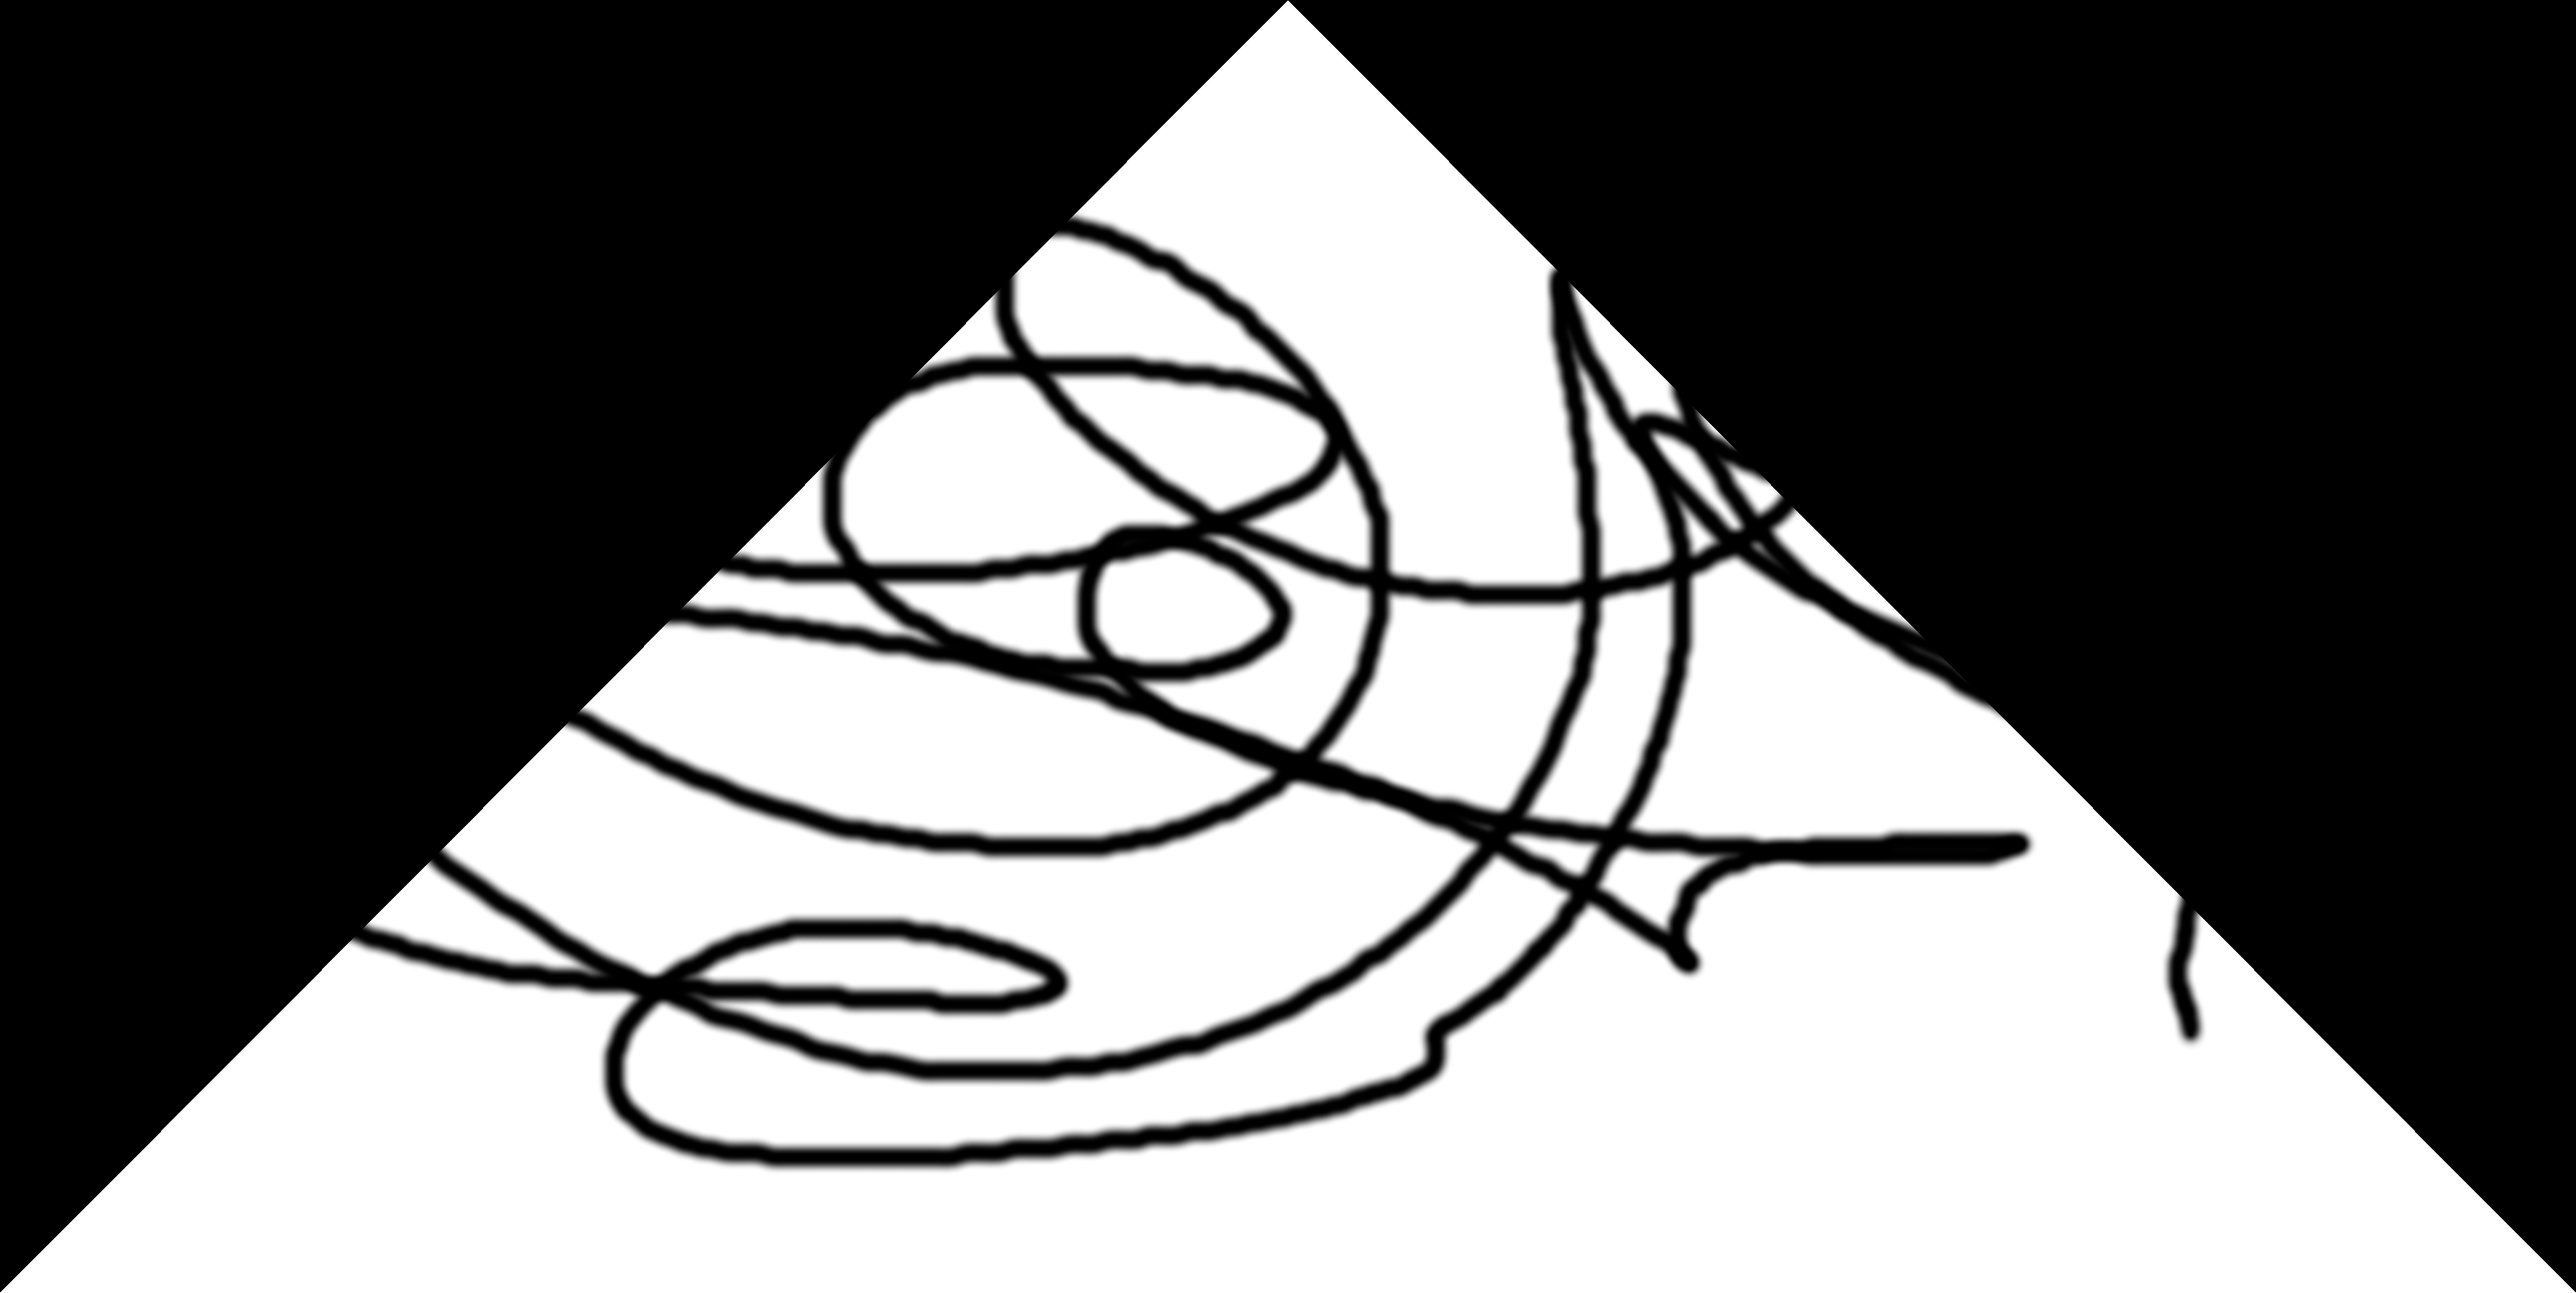
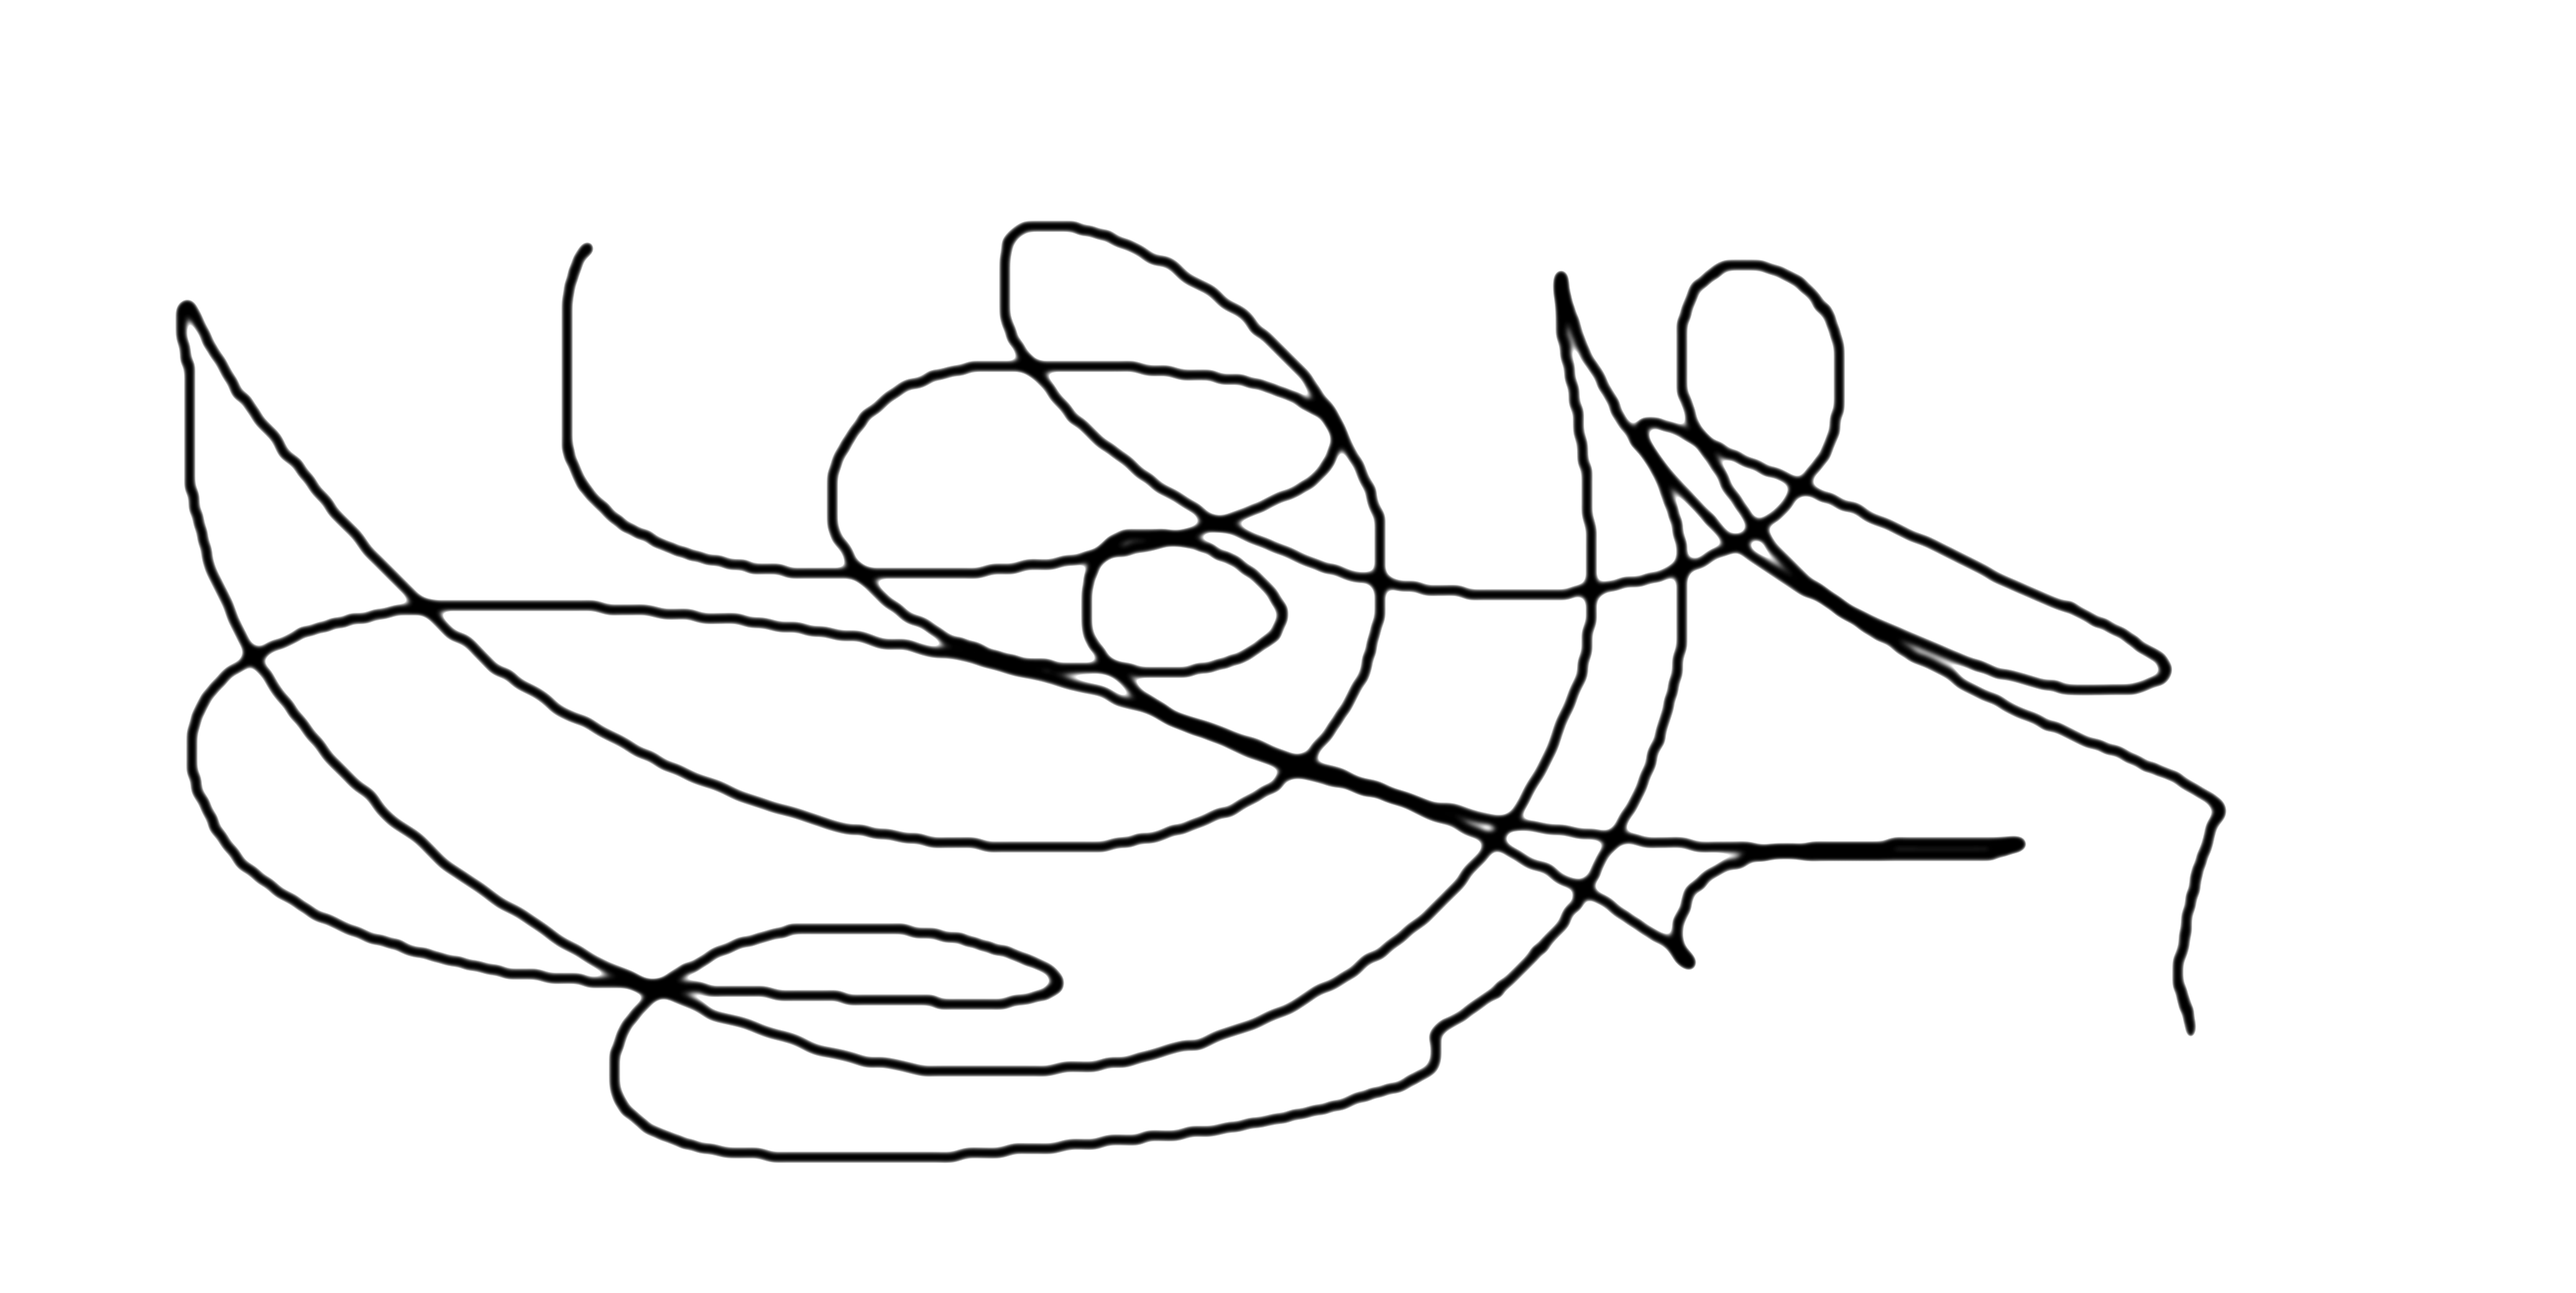
gaussian wowow

diff --git a/backend/src/main.rs b/backend/src/main.rs
@@ -7,9 +7,12 @@ async fn main() {
         .expect("couldn't create state");
 
     println!("post state load");
-    state.tick_state().await.expect("couldn't tick state");
-    println!("post tick");
+    for i in 0..8 {
+        println!("tick {i}");
+        state.tick_state().await.expect("couldn't tick state");
+    }
 
+    println!("saving");
     state
         .save_state_to_image("scribble-2.png")
         .await

diff --git a/backend/src/state.rs b/backend/src/state.rs
@@ -54,6 +54,7 @@ impl State {
         }
     }
 
+    /// Ticks the map state, and updates the internal copy of that state.
     pub async fn tick_state(&mut self) -> Result<()> {
         self.graphics.apply_shader()?;
         self.graphics.get_texture_contents(&mut self.buffer).await
